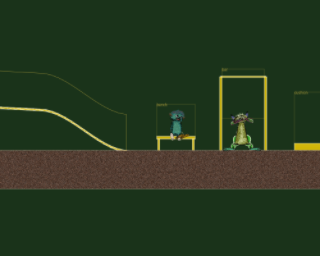
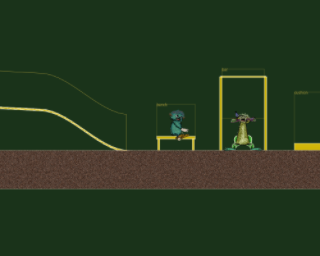
Playtime: rig zones sports — a trampoline with saltos and skipping ropes (RIG-ZONES RZ8; Nikki: "maybe some jumping sports to make saltos, skipping rope?"). Trampoline: any part on the bed sends it up, every n bounces a salto, honest physics: launched with a spin about its middle, ragdolled, hips an

Changed region(s): [[0.7188, 0.4375, 0.8125, 0.5938], [0.5312, 0.4688, 0.5938, 0.5625]]

diff --git a/experiments/playtime/docs/RIG-ZONES.md b/experiments/playtime/docs/RIG-ZONES.md
@@ -64,6 +64,21 @@ the scene: a slide, a bench, a bar on two posts, a cushion, three Mipos.
   and sat still 0.7 s on a slide it scoots forward. `mipoJointGuard` leaves a posed Mipo alone
   (`inst._noStandUp`, a new flag there): a limb held off its target by a chute read as a split and it
   hopped about.
+  Playground 4, sports (2026-11-15, Nikki: "maybe some jumping sports to make saltos, skipping rope?"):
+  - **trampoline**: any part on the bed and it's sent up 'trampoline (x height)' of its height. Every 'salto
+    every n bounces' (0: never), if upright: a salto, honest physics, launched with a spin about its middle (each
+    part's speed from a rigid turn), ragdolled (a KEEP_ANGLE sets a part's turn speed outright: it would stop the
+    spin), hips and knees driven by their motors (relative: they keep it) to a tuck, opened out with the turn
+    nearly done, lands on its feet; landed, its own muscles back. The launch spin is a full turn over the flight
+    / 1.05 (1.6 counting on the tuck under-turned it, 250 degrees); the legs don't look much tucked yet.
+  - **rope** (two mats): the rope's angle goes round (over the head, under the feet), drawn hand to hand, dim
+    behind; it hops (0.12 of its height) just before the rope comes under; on the floor then, the rope catches
+    on its feet for 0.8 s. The arms turn it. 'rope turns / s'.
+- Leaving a zone always ends with `mipoActions.wake`: its KEEP_ANGLEs' targets are put back, but on or off is
+  wake's (Nikki 2026-11-15: "sometimes i can get mipos sort of disabled from being in a ride and still have
+  their legs turned off when on the ground"). Put back as they were when the zone took it, a Mipo that came in
+  limp (dazed by a landing, out of a salto, off the cushion) kept its legs off, and the arm hang's ragdoll flag
+  (put back the same way) kept it from walking.
 - A zone that turns a Mipo (slide, bench, crawl) sets the head's and body's turn from the facing and draws the
   face again (`mipoFacing.applyFace`): `mipoFacing.angle` returns the turn under way, so copying it kept the
   old one, and without the redraw the face looked the way it last turned (Nikki 2026-11-15: "mipos are still
@@ -87,4 +102,6 @@ the scene: a slide, a bench, a bar on two posts, a cushion, three Mipos.
 - [x] RZ4. More places: crawl under things, ladder, beam, wind, swing (2026-11-14)
 - [ ] RZ5. Nikki plays with playground 2; the swing only keeps a small swing going (±10 degrees) by itself
 - [x] RZ7. A slide park: sky tower, bumpy, steep drop (2026-11-15)
+- [x] RZ8. Sports: trampoline saltos, skipping ropes (2026-11-15)
+- [ ] RZ9. The salto's tuck shows little (knees fairly straight): the motors' targets or torque
 - [ ] RZ6. A bed (lie down), a chair facing front, a seesaw, a trampoline
